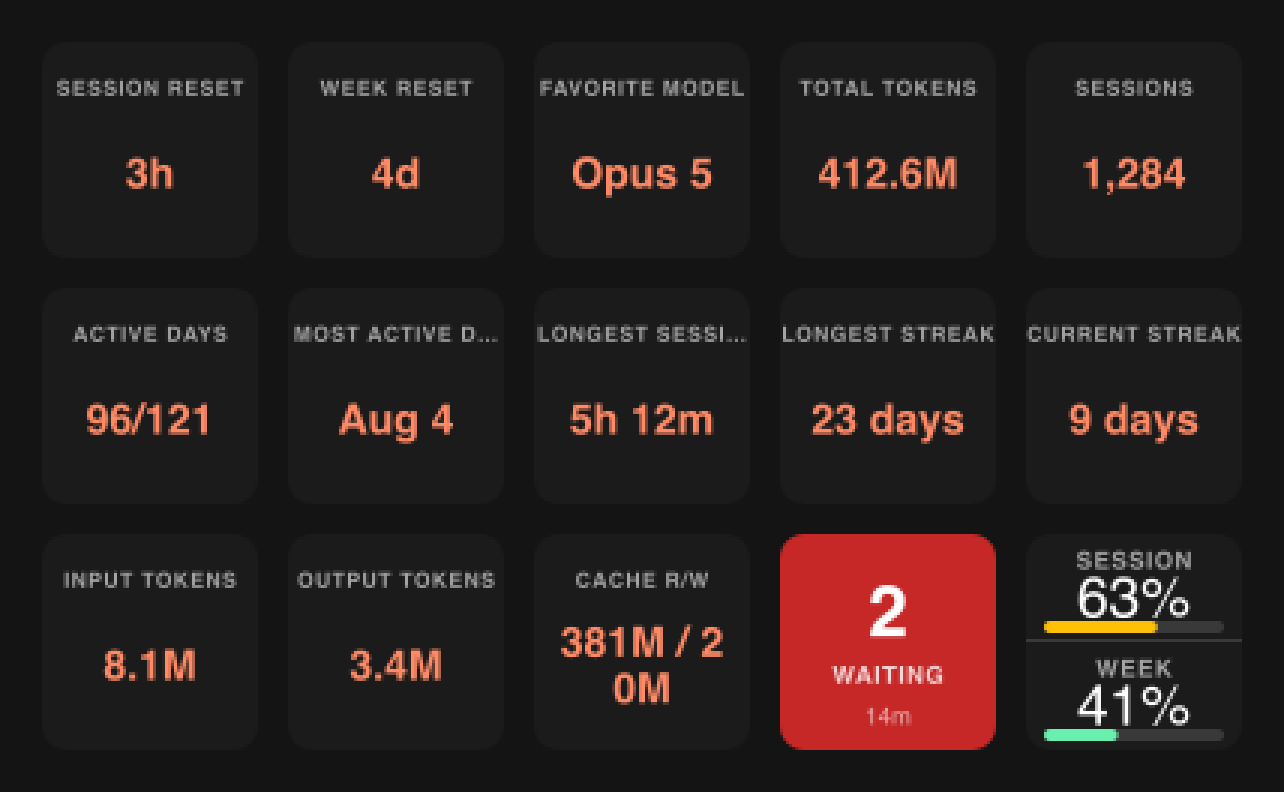
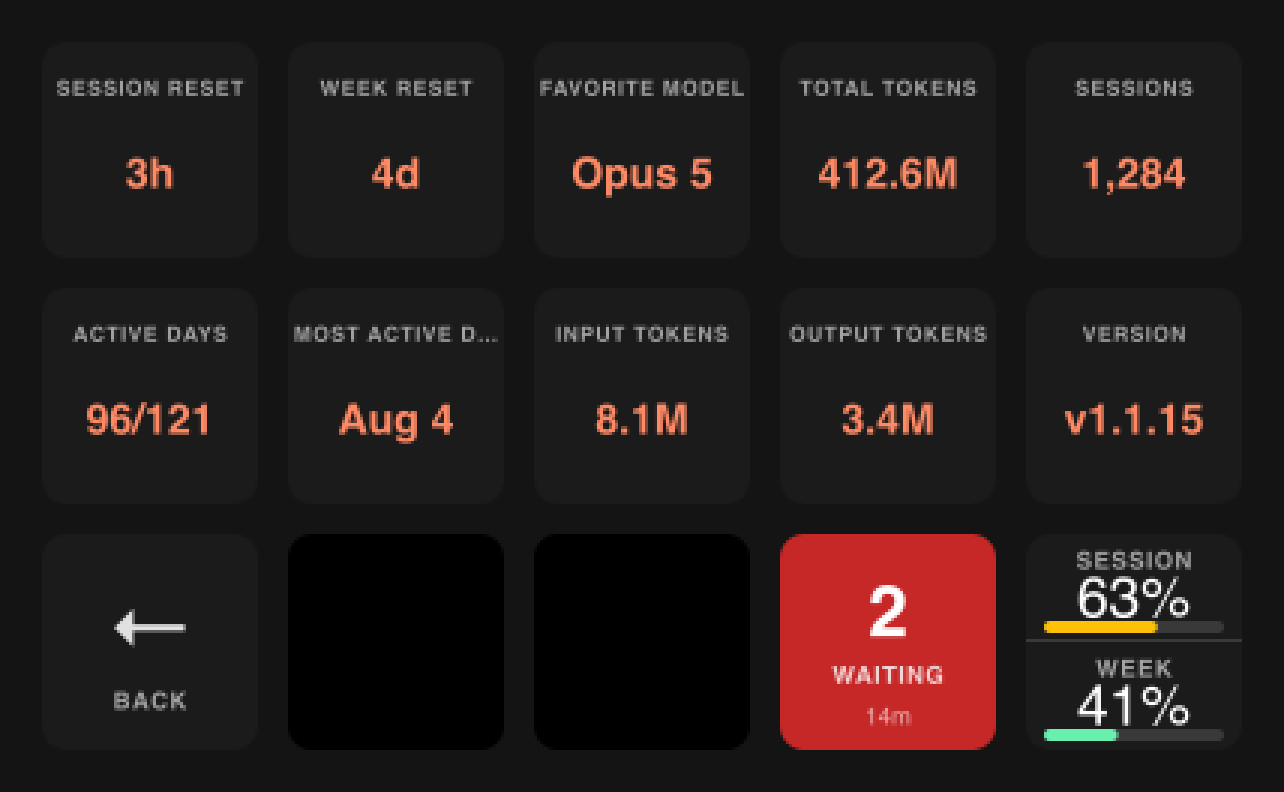
feat: the stats board trades three streak tiles for a version and a way out
Cache r/w, longest session and both streaks are gone: four numbers nobody
acts on, and the cache pair was already two facts squeezed into one tile.
What's left is seven stats, the daemon's own version, and a BACK key on the
bottom-left button — the same key the detail board leaves by, so the two
full-deck boards exit the same way.

The back key is assigned at DETAIL_BACK_INDEX rather than spliced in: an
unreadable stats cache makes the tile list short, and the way out still has
to be on the same physical key.

Claude-Session: https://claude.ai/code/session_01YZWG8GmLJfmdw8bRmvVq1c

diff --git a/CLAUDE.md b/CLAUDE.md
@@ -56,7 +56,11 @@ button press → index.mjs → vscode-state.mjs (already-open file) → `open -a
   "Week reset") isn't from stats.mjs — it's `usage.mjs`'s
   `sessionResetsAt`/`weekResetsAt` reduced to hours/days, prepended in
   `index.mjs` because they change by the hour/day while the all-time totals
-  barely move.
+  barely move. Its last tile is the daemon's own version, appended in
+  `index.mjs` for the same reason — `pkg` is already read there. It also gets a
+  back key at `DETAIL_BACK_INDEX`, like the detail board, but *assigned* at
+  that index rather than spliced: an unreadable stats cache makes the tile list
+  short, and the way out still has to be on the bottom-left button.
 - **One session across the whole deck: the detail view.** A second press on a
   session key (see the repeat-press rule below) opens `refreshDetail`, which
   takes over **all 15 keys** — usage and attention included, unlike every other
@@ -142,10 +146,13 @@ button press → index.mjs → vscode-state.mjs (already-open file) → `open -a
   session count) to `~/.claude/streamdeck-usage.jsonl` before changing any of
   this.
 - `src/stats.mjs` — all-time stats board (favorite model, total tokens,
-  streaks, ...), read from `~/.claude/stats-cache.json`, cached 30s. Values are
-  validated against a real screenshot of the source tool's own output (see the
-  pinned `formatDuration` case in `stats-check`); don't change the formatting
-  helpers without re-checking against a real cache file.
+  sessions, ...), read from `~/.claude/stats-cache.json`, cached 30s. Values are
+  validated against a real screenshot of the source tool's own output; don't
+  change the formatting helpers without re-checking against a real cache file.
+  It returns exactly seven tiles — `index.mjs` brackets them with the reset
+  pair, the version tile and the back key to fill all 13 buttons, so an eighth
+  would land under the back key and never be seen (`stats-check` pins the
+  count).
 - `src/vscode-state.mjs` — best-effort reader of VS Code's `state.vscdb` via the
   `sqlite3` CLI, to find a file the target window already has open. Reads an
   undocumented internal format, so *every* failure path returns `null` and the

diff --git a/README.md b/README.md
@@ -48,7 +48,8 @@ end, the subagents it has running. `BACK` returns.
 ![The detail board](docs/img/board-detail.png)
 
 **Stats** — the usage key's second press: time until each rate-limit window
-resets, then all-time totals.
+resets, then all-time totals, and the daemon's own version. `BACK` returns, as
+does the usage key.
 
 ![The stats board](docs/img/board-stats.png)
 
